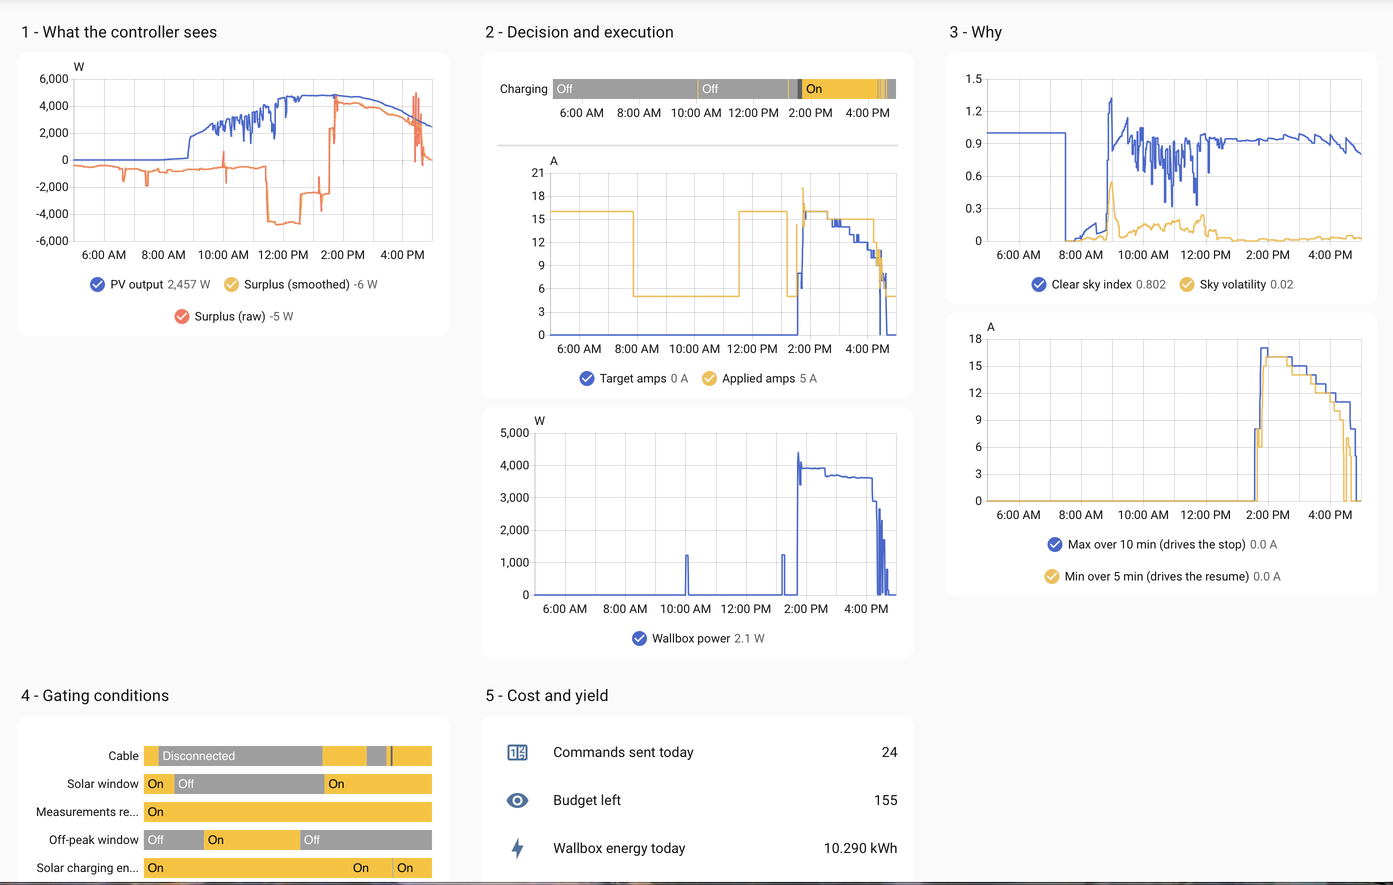
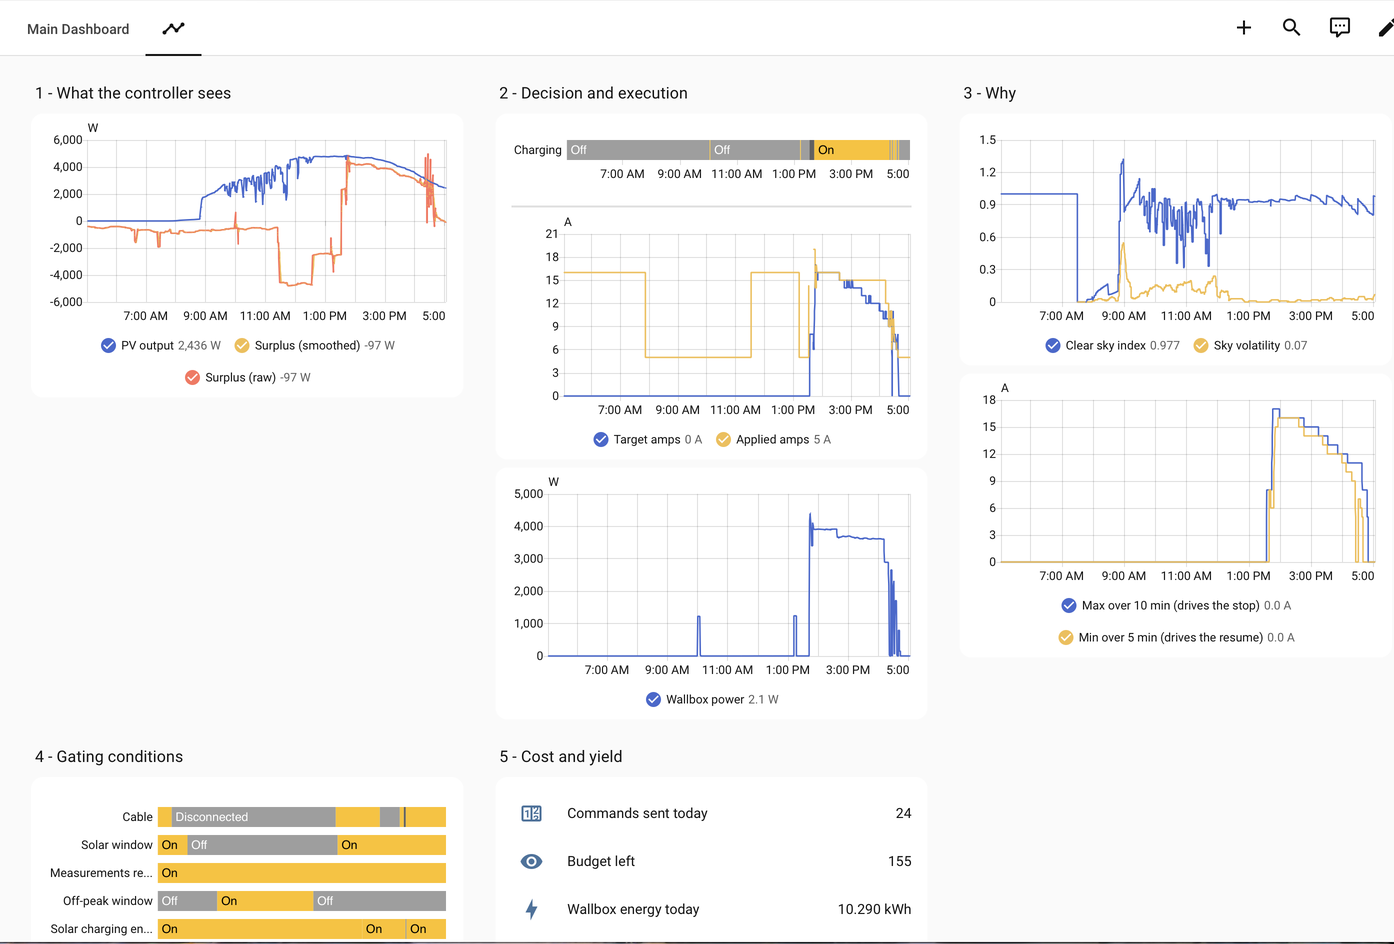
Refresh both screenshots
The control card is now two columns, so one image covers what used to
take two. Both show the system working rather than mid-diagnosis.

diff --git a/README.md b/README.md
@@ -118,17 +118,17 @@ The card in `dashboard/tesla_solar_card.yaml` is organised around the three
 gaps that matter, in reading order: what the controller sees, what it commands,
 and what the car actually does.
 
-| Control | Settings and tracking |
-|---|---|
-| ![Control card](docs/img/dashboard-control.png) | ![Settings card](docs/img/dashboard-settings.png) |
+![Control card](docs/img/dashboard-control.png)
 
-`Smoothed surplus` negative means the house is importing — target amps
-correctly falls to zero. `Clear sky index` around 0.43 indicates hazy
-conditions, and `Sky volatility` at 0.06 is just above the first threshold, so
-a 250 W margin is applied on top of the base margin.
+Live control on the left, settings on the right. In the state shown, the car has
+reached 100% and charging has stopped, so the target sits at zero while the
+surplus is slightly negative.
 
-`Min interval between commands` is derived, not configured: the remaining API
-budget spread over the remaining daylight.
+Two derived values are worth watching. `Applied margin` reads 650 — a 400 W base
+plus 250 W because sky volatility crossed the first threshold. And `Grid draw to
+hold floor` shows what holding the 5 A floor would cost right now; compare it
+against the accepted allowance to understand why the charge stopped rather than
+held.
 
 ### Installing the cards
 
@@ -160,9 +160,9 @@ afternoon, the target follows, and the applied amperage steps down behind it to
 the 5 A floor. Target and applied stay within the dead band of each other the
 whole way down — which is what a well-tuned loop looks like.
 
-Section 3 explains the pacing: a clear-sky index around 0.8 and volatility at
-0.02 mean stable conditions, so only the base margin applied and the controller
-could track closely rather than keeping headroom in reserve.
+Section 3 explains the pacing. The clear-sky index sits near 1.0 through the
+afternoon — clear conditions — while the morning shows the scatter of broken
+cloud. Volatility settles at 0.07, just enough to add a second margin band.
 
 24 commands delivered 10.3 kWh.
 
